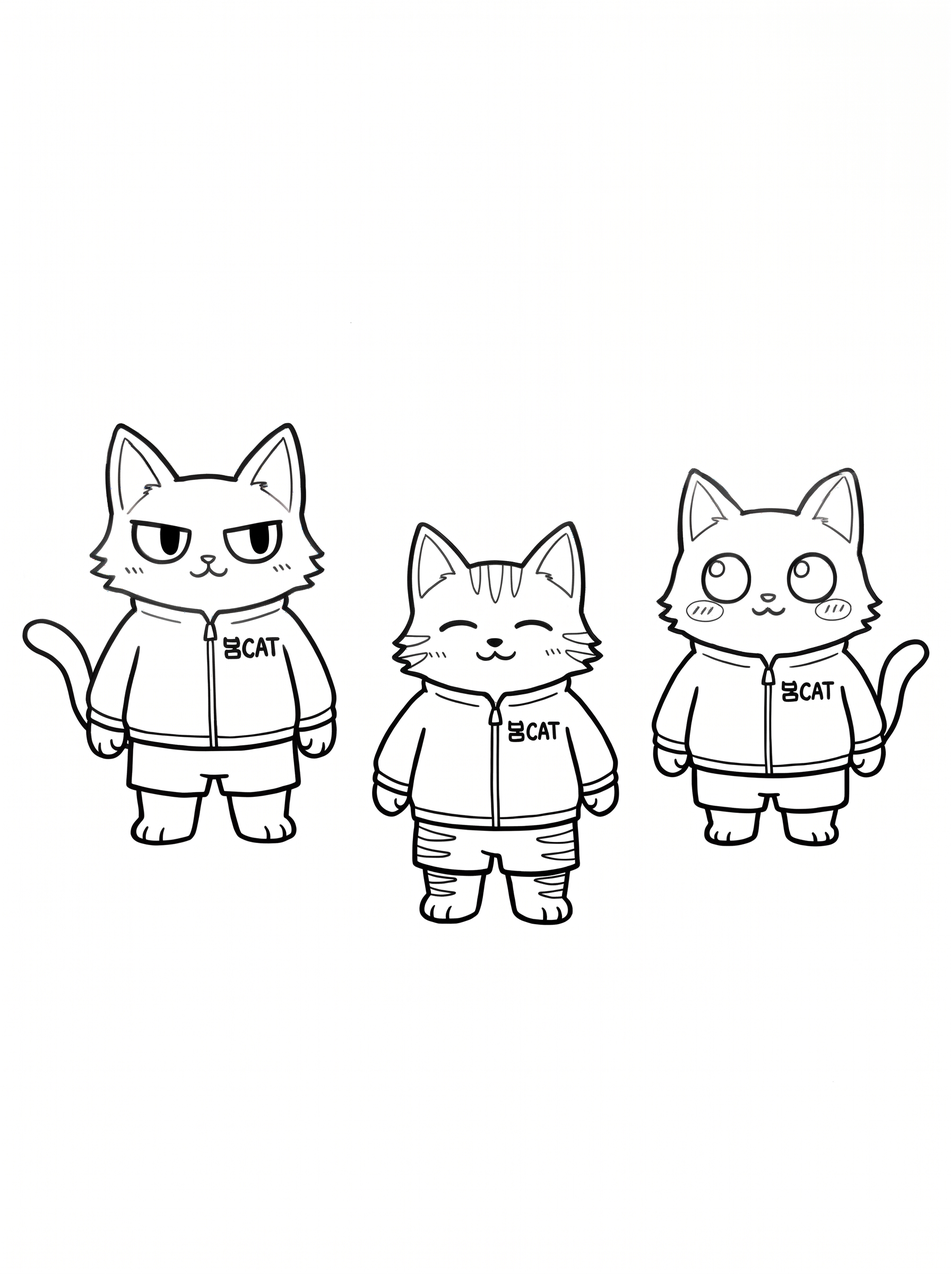
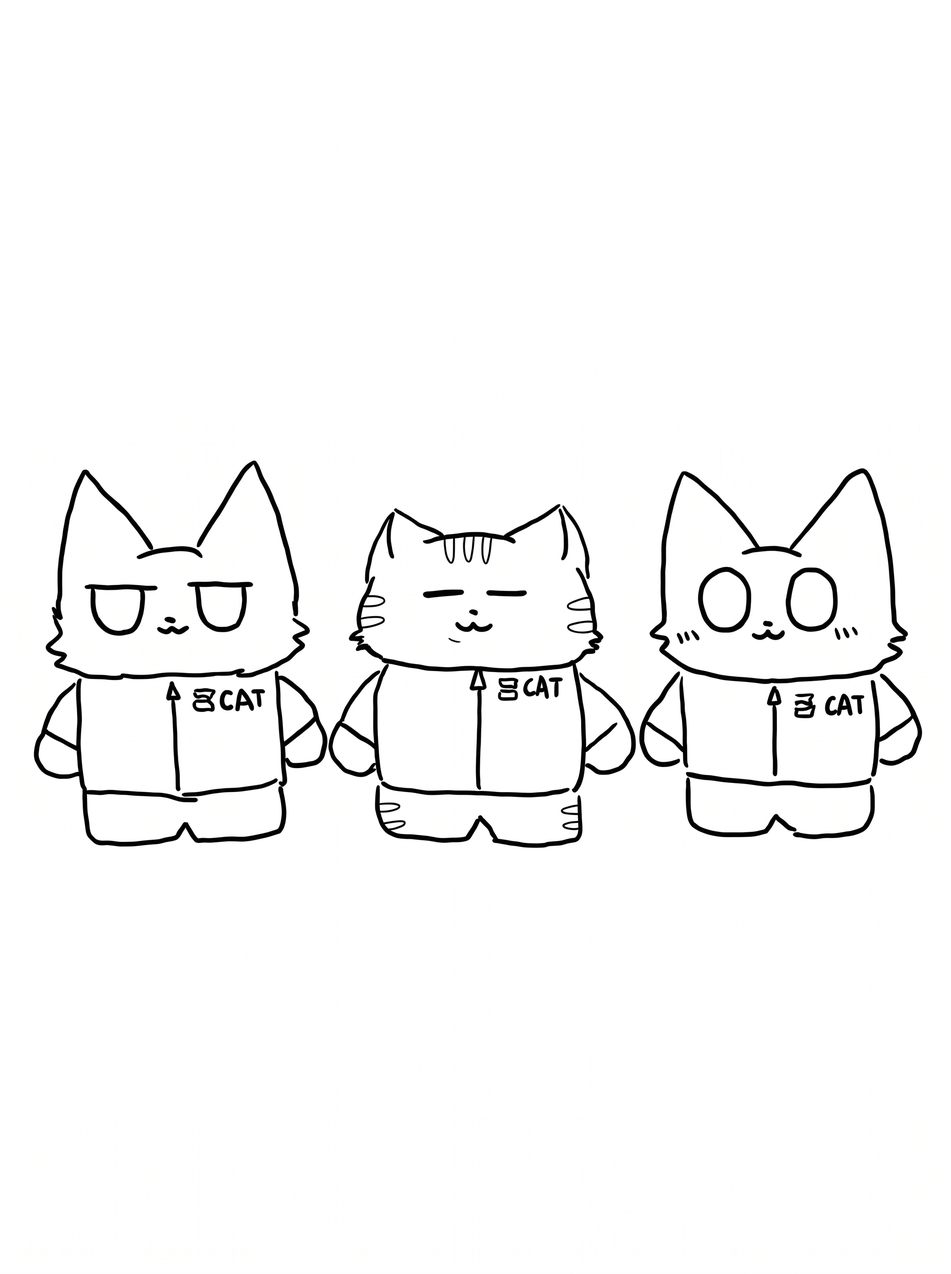
Switch the cats to the second character design
New colour reference and Luke's own line-art sheet; the first design is
kept under characters/cats/old/.

Claude-Session: https://claude.ai/code/session_01UjYjiCZpVC6eCN2Pzh7jaW

Changed region(s): [[0.0312, 0.3125, 1.0, 0.75]]

diff --git a/books/weekend/prompts.md b/books/weekend/prompts.md
@@ -1,6 +1,6 @@
 # What Shall We Do This Weekend?：每頁提示詞
 
-在 Gemini 或 ChatGPT 開一個新對話，第一則訊息先上傳角色參考圖：reference.png、lineart_sheet.jpg，然後依序貼上每一頁。
+在 Gemini 或 ChatGPT 開一個新對話，第一則訊息先上傳角色參考圖：reference.jpg、lineart_sheet.jpg，然後依序貼上每一頁。
 
 ## p01：What shall we do this weekend?
 
@@ -10,10 +10,10 @@ Children's coloring book page. Pure black line art on a pure white background. N
 Coloring page for ages 6 to 9. Medium-weight clean black outlines. Characters plus a simple scene background with at most 6 background objects. Keep every coloring area at least fingertip-sized. No scattered small decorations: no floating leaves, no sprinkled grass tufts, no confetti, no dense patterns.
 
 Characters (match the attached reference images exactly; the line-art sheet shows the target style):
-- Xiao Hei (the dark gray cat): fluffy cheek tufts, pointed ears, half-closed confident eyes, small smirk, long tail. Cool, playful personality.
-- Xiao Bai (the white cat): big round eyes, small blush marks on cheeks, sweet shy expression, thin curled tail.
-- Xiao Huang (the tabby cat): stripes on forehead, cheeks and legs, happy closed eyes, relaxed smile, striped tail.
-All cats wear the same white zip-up jacket and shorts. The jacket has a small chest logo that must be copied EXACTLY as it appears in the reference images (one Korean character followed by the letters CAT); never mirror, misspell or omit it unless it is hidden by the pose. Same proportions as the reference: big head, small body, short legs.
+- Xiao Hei (the dark gray cat): very tall pointed ears, a little fluffy fur on the cheeks, large oval eyes with flat half-closed upper lids (a cool, unimpressed look), tiny "w"-shaped mouth.
+- Xiao Bai (the white cat): very tall pointed ears, a little fluffy fur on the cheeks, huge round open eyes, three short blush lines on each cheek, tiny "w"-shaped mouth.
+- Xiao Huang (the tabby cat): shorter rounder ears, softly rounded head, gently closed eyes drawn as short lines, a few short stripes on the forehead, cheeks and legs, tiny "w"-shaped mouth, relaxed happy face.
+Style: simple, cute, hand-drawn look with thick even black outlines, exactly like the attached line-art sheet. Body shape: chibi proportions with a big head about as large as the body, a boxy body, short stubby legs, and round mitten-like paws with no fingers drawn. Keep the bodies simple and boxy, not realistic cats. All three wear the same plain white boxy zip-up jacket (one vertical zipper line with a small arrow-shaped zipper pull at the top) and plain shorts. The jacket has a small chest logo on the right side of the zipper that must be copied EXACTLY as it appears in the reference images (one Korean character followed by the letters CAT); never mirror, misspell or omit it unless it is hidden by the pose. Tails are not shown in the reference; if a pose shows a tail, keep it short and simple.
 
 Scene: Living room. Xiao Hei lies on the sofa looking bored at a smartphone, Xiao Bai sits on the floor watching a TV with a blank screen, looking sleepy. Xiao Huang stands at a big window, pointing outside with an excited face. Background: sofa, TV on a low cabinet, window with a tree outside, one rug.
 
@@ -28,9 +28,9 @@ Children's coloring book page. Pure black line art on a pure white background. N
 Coloring page for ages 6 to 9. Medium-weight clean black outlines. Characters plus a simple scene background with at most 6 background objects. Keep every coloring area at least fingertip-sized. No scattered small decorations: no floating leaves, no sprinkled grass tufts, no confetti, no dense patterns.
 
 Characters (match the attached reference images exactly; the line-art sheet shows the target style):
-- Xiao Bai (the white cat): big round eyes, small blush marks on cheeks, sweet shy expression, thin curled tail.
-- Xiao Huang (the tabby cat): stripes on forehead, cheeks and legs, happy closed eyes, relaxed smile, striped tail.
-All cats wear the same white zip-up jacket and shorts. The jacket has a small chest logo that must be copied EXACTLY as it appears in the reference images (one Korean character followed by the letters CAT); never mirror, misspell or omit it unless it is hidden by the pose. Same proportions as the reference: big head, small body, short legs.
+- Xiao Bai (the white cat): very tall pointed ears, a little fluffy fur on the cheeks, huge round open eyes, three short blush lines on each cheek, tiny "w"-shaped mouth.
+- Xiao Huang (the tabby cat): shorter rounder ears, softly rounded head, gently closed eyes drawn as short lines, a few short stripes on the forehead, cheeks and legs, tiny "w"-shaped mouth, relaxed happy face.
+Style: simple, cute, hand-drawn look with thick even black outlines, exactly like the attached line-art sheet. Body shape: chibi proportions with a big head about as large as the body, a boxy body, short stubby legs, and round mitten-like paws with no fingers drawn. Keep the bodies simple and boxy, not realistic cats. All three wear the same plain white boxy zip-up jacket (one vertical zipper line with a small arrow-shaped zipper pull at the top) and plain shorts. The jacket has a small chest logo on the right side of the zipper that must be copied EXACTLY as it appears in the reference images (one Korean character followed by the letters CAT); never mirror, misspell or omit it unless it is hidden by the pose. Tails are not shown in the reference; if a pose shows a tail, keep it short and simple.
 
 Scene: Xiao Bai stands at an easel painting a big simple flower with a brush. Xiao Huang sits nearby holding a sketchbook and a crayon, smiling. Background: a paint palette, a jar of brushes, a table.
 
@@ -45,10 +45,10 @@ Children's coloring book page. Pure black line art on a pure white background. N
 Coloring page for ages 6 to 9. Medium-weight clean black outlines. Characters plus a simple scene background with at most 6 background objects. Keep every coloring area at least fingertip-sized. No scattered small decorations: no floating leaves, no sprinkled grass tufts, no confetti, no dense patterns.
 
 Characters (match the attached reference images exactly; the line-art sheet shows the target style):
-- Xiao Hei (the dark gray cat): fluffy cheek tufts, pointed ears, half-closed confident eyes, small smirk, long tail. Cool, playful personality.
-- Xiao Bai (the white cat): big round eyes, small blush marks on cheeks, sweet shy expression, thin curled tail.
-- Xiao Huang (the tabby cat): stripes on forehead, cheeks and legs, happy closed eyes, relaxed smile, striped tail.
-All cats wear the same white zip-up jacket and shorts. The jacket has a small chest logo that must be copied EXACTLY as it appears in the reference images (one Korean character followed by the letters CAT); never mirror, misspell or omit it unless it is hidden by the pose. Same proportions as the reference: big head, small body, short legs.
+- Xiao Hei (the dark gray cat): very tall pointed ears, a little fluffy fur on the cheeks, large oval eyes with flat half-closed upper lids (a cool, unimpressed look), tiny "w"-shaped mouth.
+- Xiao Bai (the white cat): very tall pointed ears, a little fluffy fur on the cheeks, huge round open eyes, three short blush lines on each cheek, tiny "w"-shaped mouth.
+- Xiao Huang (the tabby cat): shorter rounder ears, softly rounded head, gently closed eyes drawn as short lines, a few short stripes on the forehead, cheeks and legs, tiny "w"-shaped mouth, relaxed happy face.
+Style: simple, cute, hand-drawn look with thick even black outlines, exactly like the attached line-art sheet. Body shape: chibi proportions with a big head about as large as the body, a boxy body, short stubby legs, and round mitten-like paws with no fingers drawn. Keep the bodies simple and boxy, not realistic cats. All three wear the same plain white boxy zip-up jacket (one vertical zipper line with a small arrow-shaped zipper pull at the top) and plain shorts. The jacket has a small chest logo on the right side of the zipper that must be copied EXACTLY as it appears in the reference images (one Korean character followed by the letters CAT); never mirror, misspell or omit it unless it is hidden by the pose. Tails are not shown in the reference; if a pose shows a tail, keep it short and simple.
 
 Scene: All three cats sit around a low table playing a board game with a big game board, two large dice and a few game pieces. Xiao Hei is rolling the dice, Xiao Bai cheers, Xiao Huang thinks with a paw on its chin.
 
@@ -63,10 +63,10 @@ Children's coloring book page. Pure black line art on a pure white background. N
 Coloring page for ages 6 to 9. Medium-weight clean black outlines. Characters plus a simple scene background with at most 6 background objects. Keep every coloring area at least fingertip-sized. No scattered small decorations: no floating leaves, no sprinkled grass tufts, no confetti, no dense patterns.
 
 Characters (match the attached reference images exactly; the line-art sheet shows the target style):
-- Xiao Hei (the dark gray cat): fluffy cheek tufts, pointed ears, half-closed confident eyes, small smirk, long tail. Cool, playful personality.
-- Xiao Bai (the white cat): big round eyes, small blush marks on cheeks, sweet shy expression, thin curled tail.
-- Xiao Huang (the tabby cat): stripes on forehead, cheeks and legs, happy closed eyes, relaxed smile, striped tail.
-All cats wear the same white zip-up jacket and shorts. The jacket has a small chest logo that must be copied EXACTLY as it appears in the reference images (one Korean character followed by the letters CAT); never mirror, misspell or omit it unless it is hidden by the pose. Same proportions as the reference: big head, small body, short legs.
+- Xiao Hei (the dark gray cat): very tall pointed ears, a little fluffy fur on the cheeks, large oval eyes with flat half-closed upper lids (a cool, unimpressed look), tiny "w"-shaped mouth.
+- Xiao Bai (the white cat): very tall pointed ears, a little fluffy fur on the cheeks, huge round open eyes, three short blush lines on each cheek, tiny "w"-shaped mouth.
+- Xiao Huang (the tabby cat): shorter rounder ears, softly rounded head, gently closed eyes drawn as short lines, a few short stripes on the forehead, cheeks and legs, tiny "w"-shaped mouth, relaxed happy face.
+Style: simple, cute, hand-drawn look with thick even black outlines, exactly like the attached line-art sheet. Body shape: chibi proportions with a big head about as large as the body, a boxy body, short stubby legs, and round mitten-like paws with no fingers drawn. Keep the bodies simple and boxy, not realistic cats. All three wear the same plain white boxy zip-up jacket (one vertical zipper line with a small arrow-shaped zipper pull at the top) and plain shorts. The jacket has a small chest logo on the right side of the zipper that must be copied EXACTLY as it appears in the reference images (one Korean character followed by the letters CAT); never mirror, misspell or omit it unless it is hidden by the pose. Tails are not shown in the reference; if a pose shows a tail, keep it short and simple.
 
 Scene: Kitchen. The three cats make a pizza together at a counter: Xiao Hei spreads sauce, Xiao Bai adds big round toppings, Xiao Huang holds a rolling pin. All wear simple aprons over their jackets. Background: an oven, a cooking pot, a big bowl.
 
@@ -81,9 +81,9 @@ Children's coloring book page. Pure black line art on a pure white background. N
 Coloring page for ages 6 to 9. Medium-weight clean black outlines. Characters plus a simple scene background with at most 6 background objects. Keep every coloring area at least fingertip-sized. No scattered small decorations: no floating leaves, no sprinkled grass tufts, no confetti, no dense patterns.
 
 Characters (match the attached reference images exactly; the line-art sheet shows the target style):
-- Xiao Huang (the tabby cat): stripes on forehead, cheeks and legs, happy closed eyes, relaxed smile, striped tail.
-- Xiao Bai (the white cat): big round eyes, small blush marks on cheeks, sweet shy expression, thin curled tail.
-All cats wear the same white zip-up jacket and shorts. The jacket has a small chest logo that must be copied EXACTLY as it appears in the reference images (one Korean character followed by the letters CAT); never mirror, misspell or omit it unless it is hidden by the pose. Same proportions as the reference: big head, small body, short legs.
+- Xiao Huang (the tabby cat): shorter rounder ears, softly rounded head, gently closed eyes drawn as short lines, a few short stripes on the forehead, cheeks and legs, tiny "w"-shaped mouth, relaxed happy face.
+- Xiao Bai (the white cat): very tall pointed ears, a little fluffy fur on the cheeks, huge round open eyes, three short blush lines on each cheek, tiny "w"-shaped mouth.
+Style: simple, cute, hand-drawn look with thick even black outlines, exactly like the attached line-art sheet. Body shape: chibi proportions with a big head about as large as the body, a boxy body, short stubby legs, and round mitten-like paws with no fingers drawn. Keep the bodies simple and boxy, not realistic cats. All three wear the same plain white boxy zip-up jacket (one vertical zipper line with a small arrow-shaped zipper pull at the top) and plain shorts. The jacket has a small chest logo on the right side of the zipper that must be copied EXACTLY as it appears in the reference images (one Korean character followed by the letters CAT); never mirror, misspell or omit it unless it is hidden by the pose. Tails are not shown in the reference; if a pose shows a tail, keep it short and simple.
 
 Scene: Cozy reading corner. Xiao Huang sits on a big beanbag reading an open picture book. Xiao Bai lies on the floor on its tummy reading another book. Background: a bookshelf with large books, a floor lamp, one cushion.
 
@@ -98,8 +98,8 @@ Children's coloring book page. Pure black line art on a pure white background. N
 Coloring page for ages 6 to 9. Medium-weight clean black outlines. Characters plus a simple scene background with at most 6 background objects. Keep every coloring area at least fingertip-sized. No scattered small decorations: no floating leaves, no sprinkled grass tufts, no confetti, no dense patterns.
 
 Characters (match the attached reference images exactly; the line-art sheet shows the target style):
-- Xiao Hei (the dark gray cat): fluffy cheek tufts, pointed ears, half-closed confident eyes, small smirk, long tail. Cool, playful personality.
-All cats wear the same white zip-up jacket and shorts. The jacket has a small chest logo that must be copied EXACTLY as it appears in the reference images (one Korean character followed by the letters CAT); never mirror, misspell or omit it unless it is hidden by the pose. Same proportions as the reference: big head, small body, short legs.
+- Xiao Hei (the dark gray cat): very tall pointed ears, a little fluffy fur on the cheeks, large oval eyes with flat half-closed upper lids (a cool, unimpressed look), tiny "w"-shaped mouth.
+Style: simple, cute, hand-drawn look with thick even black outlines, exactly like the attached line-art sheet. Body shape: chibi proportions with a big head about as large as the body, a boxy body, short stubby legs, and round mitten-like paws with no fingers drawn. Keep the bodies simple and boxy, not realistic cats. All three wear the same plain white boxy zip-up jacket (one vertical zipper line with a small arrow-shaped zipper pull at the top) and plain shorts. The jacket has a small chest logo on the right side of the zipper that must be copied EXACTLY as it appears in the reference images (one Korean character followed by the letters CAT); never mirror, misspell or omit it unless it is hidden by the pose. Tails are not shown in the reference; if a pose shows a tail, keep it short and simple.
 
 Scene: Xiao Hei sits cross-legged wearing big headphones, eyes half closed, enjoying music and tapping a paw. Next to it a record player. Four large music notes float in the air. Background: a window, a potted plant.
 
@@ -114,10 +114,10 @@ Children's coloring book page. Pure black line art on a pure white background. N
 Coloring page for ages 6 to 9. Medium-weight clean black outlines. Characters plus a simple scene background with at most 6 background objects. Keep every coloring area at least fingertip-sized. No scattered small decorations: no floating leaves, no sprinkled grass tufts, no confetti, no dense patterns.
 
 Characters (match the attached reference images exactly; the line-art sheet shows the target style):
-- Xiao Hei (the dark gray cat): fluffy cheek tufts, pointed ears, half-closed confident eyes, small smirk, long tail. Cool, playful personality.
-- Xiao Bai (the white cat): big round eyes, small blush marks on cheeks, sweet shy expression, thin curled tail.
-- Xiao Huang (the tabby cat): stripes on forehead, cheeks and legs, happy closed eyes, relaxed smile, striped tail.
-All cats wear the same white zip-up jacket and shorts. The jacket has a small chest logo that must be copied EXACTLY as it appears in the reference images (one Korean character followed by the letters CAT); never mirror, misspell or omit it unless it is hidden by the pose. Same proportions as the reference: big head, small body, short legs.
+- Xiao Hei (the dark gray cat): very tall pointed ears, a little fluffy fur on the cheeks, large oval eyes with flat half-closed upper lids (a cool, unimpressed look), tiny "w"-shaped mouth.
+- Xiao Bai (the white cat): very tall pointed ears, a little fluffy fur on the cheeks, huge round open eyes, three short blush lines on each cheek, tiny "w"-shaped mouth.
+- Xiao Huang (the tabby cat): shorter rounder ears, softly rounded head, gently closed eyes drawn as short lines, a few short stripes on the forehead, cheeks and legs, tiny "w"-shaped mouth, relaxed happy face.
+Style: simple, cute, hand-drawn look with thick even black outlines, exactly like the attached line-art sheet. Body shape: chibi proportions with a big head about as large as the body, a boxy body, short stubby legs, and round mitten-like paws with no fingers drawn. Keep the bodies simple and boxy, not realistic cats. All three wear the same plain white boxy zip-up jacket (one vertical zipper line with a small arrow-shaped zipper pull at the top) and plain shorts. The jacket has a small chest logo on the right side of the zipper that must be copied EXACTLY as it appears in the reference images (one Korean character followed by the letters CAT); never mirror, misspell or omit it unless it is hidden by the pose. Tails are not shown in the reference; if a pose shows a tail, keep it short and simple.
 
 Scene: Night camping. A large triangle tent, a small campfire with big simple flames. Xiao Hei and Xiao Huang roast marshmallows on sticks, Xiao Bai sits wrapped in a blanket looking up. Background: a big moon, four large stars, two pine trees.
 
@@ -132,9 +132,9 @@ Children's coloring book page. Pure black line art on a pure white background. N
 Coloring page for ages 6 to 9. Medium-weight clean black outlines. Characters plus a simple scene background with at most 6 background objects. Keep every coloring area at least fingertip-sized. No scattered small decorations: no floating leaves, no sprinkled grass tufts, no confetti, no dense patterns.
 
 Characters (match the attached reference images exactly; the line-art sheet shows the target style):
-- Xiao Hei (the dark gray cat): fluffy cheek tufts, pointed ears, half-closed confident eyes, small smirk, long tail. Cool, playful personality.
-- Xiao Huang (the tabby cat): stripes on forehead, cheeks and legs, happy closed eyes, relaxed smile, striped tail.
-All cats wear the same white zip-up jacket and shorts. The jacket has a small chest logo that must be copied EXACTLY as it appears in the reference images (one Korean character followed by the letters CAT); never mirror, misspell or omit it unless it is hidden by the pose. Same proportions as the reference: big head, small body, short legs.
+- Xiao Hei (the dark gray cat): very tall pointed ears, a little fluffy fur on the cheeks, large oval eyes with flat half-closed upper lids (a cool, unimpressed look), tiny "w"-shaped mouth.
+- Xiao Huang (the tabby cat): shorter rounder ears, softly rounded head, gently closed eyes drawn as short lines, a few short stripes on the forehead, cheeks and legs, tiny "w"-shaped mouth, relaxed happy face.
+Style: simple, cute, hand-drawn look with thick even black outlines, exactly like the attached line-art sheet. Body shape: chibi proportions with a big head about as large as the body, a boxy body, short stubby legs, and round mitten-like paws with no fingers drawn. Keep the bodies simple and boxy, not realistic cats. All three wear the same plain white boxy zip-up jacket (one vertical zipper line with a small arrow-shaped zipper pull at the top) and plain shorts. The jacket has a small chest logo on the right side of the zipper that must be copied EXACTLY as it appears in the reference images (one Korean character followed by the letters CAT); never mirror, misspell or omit it unless it is hidden by the pose. Tails are not shown in the reference; if a pose shows a tail, keep it short and simple.
 
 Scene: Xiao Hei and Xiao Huang ride bicycles along a curving path, both wearing helmets, Xiao Huang waving. Background: rolling hills, two trees, a few big clouds.
 
@@ -149,10 +149,10 @@ Children's coloring book page. Pure black line art on a pure white background. N
 Coloring page for ages 6 to 9. Medium-weight clean black outlines. Characters plus a simple scene background with at most 6 background objects. Keep every coloring area at least fingertip-sized. No scattered small decorations: no floating leaves, no sprinkled grass tufts, no confetti, no dense patterns.
 
 Characters (match the attached reference images exactly; the line-art sheet shows the target style):
-- Xiao Hei (the dark gray cat): fluffy cheek tufts, pointed ears, half-closed confident eyes, small smirk, long tail. Cool, playful personality.
-- Xiao Bai (the white cat): big round eyes, small blush marks on cheeks, sweet shy expression, thin curled tail.
-- Xiao Huang (the tabby cat): stripes on forehead, cheeks and legs, happy closed eyes, relaxed smile, striped tail.
-All cats wear the same white zip-up jacket and shorts. The jacket has a small chest logo that must be copied EXACTLY as it appears in the reference images (one Korean character followed by the letters CAT); never mirror, misspell or omit it unless it is hidden by the pose. Same proportions as the reference: big head, small body, short legs.
+- Xiao Hei (the dark gray cat): very tall pointed ears, a little fluffy fur on the cheeks, large oval eyes with flat half-closed upper lids (a cool, unimpressed look), tiny "w"-shaped mouth.
+- Xiao Bai (the white cat): very tall pointed ears, a little fluffy fur on the cheeks, huge round open eyes, three short blush lines on each cheek, tiny "w"-shaped mouth.
+- Xiao Huang (the tabby cat): shorter rounder ears, softly rounded head, gently closed eyes drawn as short lines, a few short stripes on the forehead, cheeks and legs, tiny "w"-shaped mouth, relaxed happy face.
+Style: simple, cute, hand-drawn look with thick even black outlines, exactly like the attached line-art sheet. Body shape: chibi proportions with a big head about as large as the body, a boxy body, short stubby legs, and round mitten-like paws with no fingers drawn. Keep the bodies simple and boxy, not realistic cats. All three wear the same plain white boxy zip-up jacket (one vertical zipper line with a small arrow-shaped zipper pull at the top) and plain shorts. The jacket has a small chest logo on the right side of the zipper that must be copied EXACTLY as it appears in the reference images (one Korean character followed by the letters CAT); never mirror, misspell or omit it unless it is hidden by the pose. Tails are not shown in the reference; if a pose shows a tail, keep it short and simple.
 
 Scene: The three cats walk side by side along a path in the countryside. Xiao Bai holds a small leaf, Xiao Huang points at a butterfly. Background: a fence, two trees, one large butterfly, a few big clouds.
 
@@ -167,10 +167,10 @@ Children's coloring book page. Pure black line art on a pure white background. N
 Coloring page for ages 6 to 9. Medium-weight clean black outlines. Characters plus a simple scene background with at most 6 background objects. Keep every coloring area at least fingertip-sized. No scattered small decorations: no floating leaves, no sprinkled grass tufts, no confetti, no dense patterns.
 
 Characters (match the attached reference images exactly; the line-art sheet shows the target style):
-- Xiao Bai (the white cat): big round eyes, small blush marks on cheeks, sweet shy expression, thin curled tail.
-- Xiao Hei (the dark gray cat): fluffy cheek tufts, pointed ears, half-closed confident eyes, small smirk, long tail. Cool, playful personality.
-- Xiao Huang (the tabby cat): stripes on forehead, cheeks and legs, happy closed eyes, relaxed smile, striped tail.
-All cats wear the same white zip-up jacket and shorts. The jacket has a small chest logo that must be copied EXACTLY as it appears in the reference images (one Korean character followed by the letters CAT); never mirror, misspell or omit it unless it is hidden by the pose. Same proportions as the reference: big head, small body, short legs.
+- Xiao Bai (the white cat): very tall pointed ears, a little fluffy fur on the cheeks, huge round open eyes, three short blush lines on each cheek, tiny "w"-shaped mouth.
+- Xiao Hei (the dark gray cat): very tall pointed ears, a little fluffy fur on the cheeks, large oval eyes with flat half-closed upper lids (a cool, unimpressed look), tiny "w"-shaped mouth.
+- Xiao Huang (the tabby cat): shorter rounder ears, softly rounded head, gently closed eyes drawn as short lines, a few short stripes on the forehead, cheeks and legs, tiny "w"-shaped mouth, relaxed happy face.
+Style: simple, cute, hand-drawn look with thick even black outlines, exactly like the attached line-art sheet. Body shape: chibi proportions with a big head about as large as the body, a boxy body, short stubby legs, and round mitten-like paws with no fingers drawn. Keep the bodies simple and boxy, not realistic cats. All three wear the same plain white boxy zip-up jacket (one vertical zipper line with a small arrow-shaped zipper pull at the top) and plain shorts. The jacket has a small chest logo on the right side of the zipper that must be copied EXACTLY as it appears in the reference images (one Korean character followed by the letters CAT); never mirror, misspell or omit it unless it is hidden by the pose. Tails are not shown in the reference; if a pose shows a tail, keep it short and simple.
 
 Scene: Xiao Bai and Xiao Hei dance happily in a living room with arms up, Xiao Huang claps along. A speaker on the floor with three large music notes. Background: a curtain, one lamp.
 
@@ -185,10 +185,10 @@ Children's coloring book page. Pure black line art on a pure white background. N
 Coloring page for ages 6 to 9. Medium-weight clean black outlines. Characters plus a simple scene background with at most 6 background objects. Keep every coloring area at least fingertip-sized. No scattered small decorations: no floating leaves, no sprinkled grass tufts, no confetti, no dense patterns.
 
 Characters (match the attached reference images exactly; the line-art sheet shows the target style):
-- Xiao Hei (the dark gray cat): fluffy cheek tufts, pointed ears, half-closed confident eyes, small smirk, long tail. Cool, playful personality.
-- Xiao Bai (the white cat): big round eyes, small blush marks on cheeks, sweet shy expression, thin curled tail.
-- Xiao Huang (the tabby cat): stripes on forehead, cheeks and legs, happy closed eyes, relaxed smile, striped tail.
-All cats wear the same white zip-up jacket and shorts. The jacket has a small chest logo that must be copied EXACTLY as it appears in the reference images (one Korean character followed by the letters CAT); never mirror, misspell or omit it unless it is hidden by the pose. Same proportions as the reference: big head, small body, short legs.
+- Xiao Hei (the dark gray cat): very tall pointed ears, a little fluffy fur on the cheeks, large oval eyes with flat half-closed upper lids (a cool, unimpressed look), tiny "w"-shaped mouth.
+- Xiao Bai (the white cat): very tall pointed ears, a little fluffy fur on the cheeks, huge round open eyes, three short blush lines on each cheek, tiny "w"-shaped mouth.
+- Xiao Huang (the tabby cat): shorter rounder ears, softly rounded head, gently closed eyes drawn as short lines, a few short stripes on the forehead, cheeks and legs, tiny "w"-shaped mouth, relaxed happy face.
+Style: simple, cute, hand-drawn look with thick even black outlines, exactly like the attached line-art sheet. Body shape: chibi proportions with a big head about as large as the body, a boxy body, short stubby legs, and round mitten-like paws with no fingers drawn. Keep the bodies simple and boxy, not realistic cats. All three wear the same plain white boxy zip-up jacket (one vertical zipper line with a small arrow-shaped zipper pull at the top) and plain shorts. The jacket has a small chest logo on the right side of the zipper that must be copied EXACTLY as it appears in the reference images (one Korean character followed by the letters CAT); never mirror, misspell or omit it unless it is hidden by the pose. Tails are not shown in the reference; if a pose shows a tail, keep it short and simple.
 
 Scene: Playground. Xiao Huang slides down a big slide with arms up, Xiao Bai sits on a swing, Xiao Hei climbs a small climbing frame. Background: one tree, a bench, the sun.
 
@@ -203,9 +203,9 @@ Children's coloring book page. Pure black line art on a pure white background. N
 Coloring page for ages 6 to 9. Medium-weight clean black outlines. Characters plus a simple scene background with at most 6 background objects. Keep every coloring area at least fingertip-sized. No scattered small decorations: no floating leaves, no sprinkled grass tufts, no confetti, no dense patterns.
 
 Characters (match the attached reference images exactly; the line-art sheet shows the target style):
-- Xiao Bai (the white cat): big round eyes, small blush marks on cheeks, sweet shy expression, thin curled tail.
-- Xiao Huang (the tabby cat): stripes on forehead, cheeks and legs, happy closed eyes, relaxed smile, striped tail.
-All cats wear the same white zip-up jacket and shorts. The jacket has a small chest logo that must be copied EXACTLY as it appears in the reference images (one Korean character followed by the letters CAT); never mirror, misspell or omit it unless it is hidden by the pose. Same proportions as the reference: big head, small body, short legs.
+- Xiao Bai (the white cat): very tall pointed ears, a little fluffy fur on the cheeks, huge round open eyes, three short blush lines on each cheek, tiny "w"-shaped mouth.
+- Xiao Huang (the tabby cat): shorter rounder ears, softly rounded head, gently closed eyes drawn as short lines, a few short stripes on the forehead, cheeks and legs, tiny "w"-shaped mouth, relaxed happy face.
+Style: simple, cute, hand-drawn look with thick even black outlines, exactly like the attached line-art sheet. Body shape: chibi proportions with a big head about as large as the body, a boxy body, short stubby legs, and round mitten-like paws with no fingers drawn. Keep the bodies simple and boxy, not realistic cats. All three wear the same plain white boxy zip-up jacket (one vertical zipper line with a small arrow-shaped zipper pull at the top) and plain shorts. The jacket has a small chest logo on the right side of the zipper that must be copied EXACTLY as it appears in the reference images (one Korean character followed by the letters CAT); never mirror, misspell or omit it unless it is hidden by the pose. Tails are not shown in the reference; if a pose shows a tail, keep it short and simple.
 
 Scene: Inside a small flower shop. Xiao Bai smells a big bouquet of large simple flowers, Xiao Huang carries a potted sunflower. Background: three buckets of large flowers, a shop counter, a hanging sign with no text.
 
@@ -220,10 +220,10 @@ Children's coloring book page. Pure black line art on a pure white background. N
 Coloring page for ages 6 to 9. Medium-weight clean black outlines. Characters plus a simple scene background with at most 6 background objects. Keep every coloring area at least fingertip-sized. No scattered small decorations: no floating leaves, no sprinkled grass tufts, no confetti, no dense patterns.
 
 Characters (match the attached reference images exactly; the line-art sheet shows the target style):
-- Xiao Hei (the dark gray cat): fluffy cheek tufts, pointed ears, half-closed confident eyes, small smirk, long tail. Cool, playful personality.
-- Xiao Bai (the white cat): big round eyes, small blush marks on cheeks, sweet shy expression, thin curled tail.
-- Xiao Huang (the tabby cat): stripes on forehead, cheeks and legs, happy closed eyes, relaxed smile, striped tail.
-All cats wear the same white zip-up jacket and shorts. The jacket has a small chest logo that must be copied EXACTLY as it appears in the reference images (one Korean character followed by the letters CAT); never mirror, misspell or omit it unless it is hidden by the pose. Same proportions as the reference: big head, small body, short legs.
+- Xiao Hei (the dark gray cat): very tall pointed ears, a little fluffy fur on the cheeks, large oval eyes with flat half-closed upper lids (a cool, unimpressed look), tiny "w"-shaped mouth.
+- Xiao Bai (the white cat): very tall pointed ears, a little fluffy fur on the cheeks, huge round open eyes, three short blush lines on each cheek, tiny "w"-shaped mouth.
+- Xiao Huang (the tabby cat): shorter rounder ears, softly rounded head, gently closed eyes drawn as short lines, a few short stripes on the forehead, cheeks and legs, tiny "w"-shaped mouth, relaxed happy face.
+Style: simple, cute, hand-drawn look with thick even black outlines, exactly like the attached line-art sheet. Body shape: chibi proportions with a big head about as large as the body, a boxy body, short stubby legs, and round mitten-like paws with no fingers drawn. Keep the bodies simple and boxy, not realistic cats. All three wear the same plain white boxy zip-up jacket (one vertical zipper line with a small arrow-shaped zipper pull at the top) and plain shorts. The jacket has a small chest logo on the right side of the zipper that must be copied EXACTLY as it appears in the reference images (one Korean character followed by the letters CAT); never mirror, misspell or omit it unless it is hidden by the pose. Tails are not shown in the reference; if a pose shows a tail, keep it short and simple.
 
 Scene: Grassy field. Xiao Huang runs with arms stretched out trying to tag the others, Xiao Bai and Xiao Hei run away laughing. Background: two trees, a few bushes, big clouds.
 
@@ -238,9 +238,9 @@ Children's coloring book page. Pure black line art on a pure white background. N
 Coloring page for ages 6 to 9. Medium-weight clean black outlines. Characters plus a simple scene background with at most 6 background objects. Keep every coloring area at least fingertip-sized. No scattered small decorations: no floating leaves, no sprinkled grass tufts, no confetti, no dense patterns.
 
 Characters (match the attached reference images exactly; the line-art sheet shows the target style):
-- Xiao Hei (the dark gray cat): fluffy cheek tufts, pointed ears, half-closed confident eyes, small smirk, long tail. Cool, playful personality.
-- Xiao Huang (the tabby cat): stripes on forehead, cheeks and legs, happy closed eyes, relaxed smile, striped tail.
-All cats wear the same white zip-up jacket and shorts. The jacket has a small chest logo that must be copied EXACTLY as it appears in the reference images (one Korean character followed by the letters CAT); never mirror, misspell or omit it unless it is hidden by the pose. Same proportions as the reference: big head, small body, short legs.
+- Xiao Hei (the dark gray cat): very tall pointed ears, a little fluffy fur on the cheeks, large oval eyes with flat half-closed upper lids (a cool, unimpressed look), tiny "w"-shaped mouth.
+- Xiao Huang (the tabby cat): shorter rounder ears, softly rounded head, gently closed eyes drawn as short lines, a few short stripes on the forehead, cheeks and legs, tiny "w"-shaped mouth, relaxed happy face.
+Style: simple, cute, hand-drawn look with thick even black outlines, exactly like the attached line-art sheet. Body shape: chibi proportions with a big head about as large as the body, a boxy body, short stubby legs, and round mitten-like paws with no fingers drawn. Keep the bodies simple and boxy, not realistic cats. All three wear the same plain white boxy zip-up jacket (one vertical zipper line with a small arrow-shaped zipper pull at the top) and plain shorts. The jacket has a small chest logo on the right side of the zipper that must be copied EXACTLY as it appears in the reference images (one Korean character followed by the letters CAT); never mirror, misspell or omit it unless it is hidden by the pose. Tails are not shown in the reference; if a pose shows a tail, keep it short and simple.
 
 Scene: Park. Xiao Hei throws a large ball high in the air, Xiao Huang jumps up with paws open to catch it. Background: a tree, a bench, a few big clouds.
 
@@ -255,10 +255,10 @@ Children's coloring book page. Pure black line art on a pure white background. N
 Coloring page for ages 6 to 9. Medium-weight clean black outlines. Characters plus a simple scene background with at most 6 background objects. Keep every coloring area at least fingertip-sized. No scattered small decorations: no floating leaves, no sprinkled grass tufts, no confetti, no dense patterns.
 
 Characters (match the attached reference images exactly; the line-art sheet shows the target style):
-- Xiao Hei (the dark gray cat): fluffy cheek tufts, pointed ears, half-closed confident eyes, small smirk, long tail. Cool, playful personality.
-- Xiao Bai (the white cat): big round eyes, small blush marks on cheeks, sweet shy expression, thin curled tail.
-- Xiao Huang (the tabby cat): stripes on forehead, cheeks and legs, happy closed eyes, relaxed smile, striped tail.
-All cats wear the same white zip-up jacket and shorts. The jacket has a small chest logo that must be copied EXACTLY as it appears in the reference images (one Korean character followed by the letters CAT); never mirror, misspell or omit it unless it is hidden by the pose. Same proportions as the reference: big head, small body, short legs.
+- Xiao Hei (the dark gray cat): very tall pointed ears, a little fluffy fur on the cheeks, large oval eyes with flat half-closed upper lids (a cool, unimpressed look), tiny "w"-shaped mouth.
+- Xiao Bai (the white cat): very tall pointed ears, a little fluffy fur on the cheeks, huge round open eyes, three short blush lines on each cheek, tiny "w"-shaped mouth.
+- Xiao Huang (the tabby cat): shorter rounder ears, softly rounded head, gently closed eyes drawn as short lines, a few short stripes on the forehead, cheeks and legs, tiny "w"-shaped mouth, relaxed happy face.
+Style: simple, cute, hand-drawn look with thick even black outlines, exactly like the attached line-art sheet. Body shape: chibi proportions with a big head about as large as the body, a boxy body, short stubby legs, and round mitten-like paws with no fingers drawn. Keep the bodies simple and boxy, not realistic cats. All three wear the same plain white boxy zip-up jacket (one vertical zipper line with a small arrow-shaped zipper pull at the top) and plain shorts. The jacket has a small chest logo on the right side of the zipper that must be copied EXACTLY as it appears in the reference images (one Korean character followed by the letters CAT); never mirror, misspell or omit it unless it is hidden by the pose. Tails are not shown in the reference; if a pose shows a tail, keep it short and simple.
 
 Scene: The three cats stand together smiling and waving at the reader. Around them, a few large simple objects from the weekend: a paintbrush, a die, a book, a ball and a flower. Big heart shape behind them.
 
